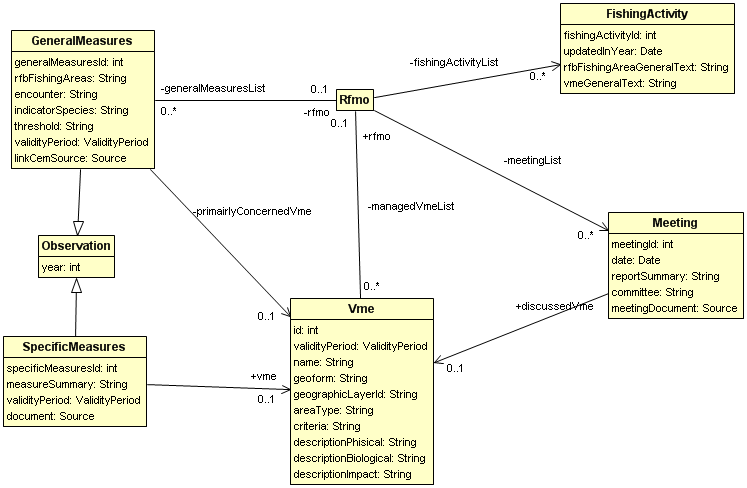
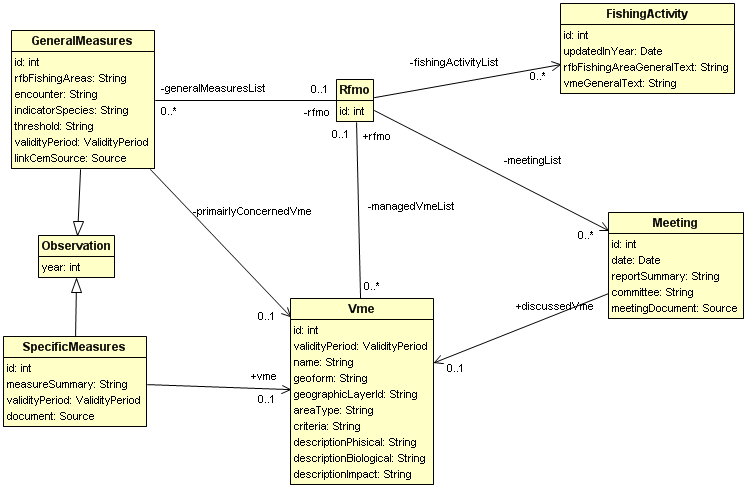
domain has been changed,

diff --git a/vme-domain/src/main/java/org/fao/fi/vme/domain/GeneralMeasures.java b/vme-domain/src/main/java/org/fao/fi/vme/domain/GeneralMeasures.java
@@ -15,7 +15,7 @@ public class GeneralMeasures extends Observation {
 	 * 
 	 */
 	@Id
-	private int generalMeasuresId;
+	private int id;
 
 	/** */
 	private String rfbFishingAreas;
@@ -44,11 +44,11 @@ public class GeneralMeasures extends Observation {
 	private Vme primairlyConcernedVme;
 
 	public int getGeneralMeasuresId() {
-		return generalMeasuresId;
+		return id;
 	}
 
 	public void setGeneralMeasuresId(int generalMeasuresId) {
-		this.generalMeasuresId = generalMeasuresId;
+		this.id = generalMeasuresId;
 	}
 
 	public String getRfbFishingAreas() {
@@ -113,6 +113,14 @@ public class GeneralMeasures extends Observation {
 
 	public void setPrimairlyConcernedVme(Vme primairlyConcernedVme) {
 		this.primairlyConcernedVme = primairlyConcernedVme;
+	}
+
+	public int getId() {
+		return id;
+	}
+
+	public void setId(int id) {
+		this.id = id;
 	}
 
 }

diff --git a/vme-domain/src/main/java/org/fao/fi/vme/domain/FishingActivity.java b/vme-domain/src/main/java/org/fao/fi/vme/domain/FishingActivity.java
@@ -17,7 +17,7 @@ public class FishingActivity {
 	 * 
 	 */
 	@Id
-	private int fishingActivityId;
+	private int id;
 
 	private Date updatedInYear;
 
@@ -28,11 +28,11 @@ public class FishingActivity {
 	private String vmeGeneralText;
 
 	public int getFishingActivityId() {
-		return fishingActivityId;
+		return id;
 	}
 
 	public void setFishingActivityId(int fishingActivityId) {
-		this.fishingActivityId = fishingActivityId;
+		this.id = fishingActivityId;
 	}
 
 	public Date getUpdatedInYear() {
@@ -57,6 +57,14 @@ public class FishingActivity {
 
 	public void setVmeGeneralText(String vmeGeneralText) {
 		this.vmeGeneralText = vmeGeneralText;
+	}
+
+	public int getId() {
+		return id;
+	}
+
+	public void setId(int id) {
+		this.id = id;
 	}
 
 }

diff --git a/vme-service/src/test/java/org/fao/fi/vme/dao/msaccess/VmeAccessDbImportTest.java b/vme-service/src/test/java/org/fao/fi/vme/dao/msaccess/VmeAccessDbImportTest.java
@@ -3,7 +3,6 @@ package org.fao.fi.vme.dao.msaccess;
 import org.junit.Test;
 
 import static org.junit.Assert.assertTrue;
-import static org.junit.Assert.fail;
 
 public class VmeAccessDbImportTest {
 
@@ -13,14 +12,14 @@ public class VmeAccessDbImportTest {
 		assertTrue(i.generateObjects().size() > 10);
 	}
 
-	@Test
-	public void testGetResultset() {
-		fail("Not yet implemented");
-	}
-
-	@Test
-	public void testGetConnection() {
-		fail("Not yet implemented");
-	}
+	// @Test
+	// public void testGetResultset() {
+	// fail("Not yet implemented");
+	// }
+	//
+	// @Test
+	// public void testGetConnection() {
+	// fail("Not yet implemented");
+	// }
 
 }

diff --git a/vme-domain/src/main/java/org/fao/fi/vme/domain/SpecificMeasures.java b/vme-domain/src/main/java/org/fao/fi/vme/domain/SpecificMeasures.java
@@ -15,7 +15,7 @@ public class SpecificMeasures extends Observation {
 	 *  
 	 */
 	@Id
-	private int specificMeasuresId;
+	private int id;
 
 	/** 
 	 */
@@ -34,12 +34,12 @@ public class SpecificMeasures extends Observation {
 	 */
 	public Source document;
 
-	public int getSpecificMeasuresId() {
-		return specificMeasuresId;
+	public int getId() {
+		return id;
 	}
 
-	public void setSpecificMeasuresId(int specificMeasuresId) {
-		this.specificMeasuresId = specificMeasuresId;
+	public void setId(int id) {
+		this.id = id;
 	}
 
 	public String getMeasureSummary() {

diff --git a/vme-service/src/test/java/org/fao/fi/vme/dao/VmeDaoTest.java b/vme-service/src/test/java/org/fao/fi/vme/dao/VmeDaoTest.java
@@ -2,7 +2,7 @@ package org.fao.fi.vme.dao;
 
 import javax.inject.Inject;
 
-import org.fao.fi.vme.domain.VmeObservation;
+import org.fao.fi.vme.domain.Vme;
 import org.jglue.cdiunit.CdiRunner;
 import org.junit.Test;
 import org.junit.runner.RunWith;
@@ -19,9 +19,9 @@ public class VmeDaoTest {
 	public void testPersistVme() {
 		assertNotNull(dao);
 
-		VmeObservation vme = new VmeObservation();
-		String status = "go";
-		vme.setStatus(status);
+		Vme vme = new Vme();
+		String criteria = "go";
+		vme.setCriteria(criteria);
 		// dao.persistVme(vme);
 
 	}

diff --git a/vme-domain/src/main/java/org/fao/fi/vme/domain/Meeting.java b/vme-domain/src/main/java/org/fao/fi/vme/domain/Meeting.java
@@ -15,7 +15,7 @@ import javax.persistence.Id;
 public class Meeting {
 
 	@Id
-	private int meetingId;
+	private int id;
 
 	/** */
 	private Date date;
@@ -36,12 +36,12 @@ public class Meeting {
 	 */
 	public Source meetingDocument;
 
-	public int getMeetingId() {
-		return meetingId;
+	public int getId() {
+		return id;
 	}
 
-	public void setMeetingId(int meetingId) {
-		this.meetingId = meetingId;
+	public void setId(int id) {
+		this.id = id;
 	}
 
 	public Date getDate() {

diff --git a/vme-service/src/test/java/org/fao/fi/vme/dao/JPATest.java b/vme-service/src/test/java/org/fao/fi/vme/dao/JPATest.java
@@ -20,8 +20,8 @@ public class JPATest {
 	@Test
 	public void roundTrip() {
 		Vme created = new Vme();
-		String status = "go";
-		created.setStatus(status);
+		String criteria = "go";
+		created.setCriteria(criteria);
 
 		store(created);
 
@@ -30,7 +30,7 @@ public class JPATest {
 		assertNotNull(loaded);
 
 		assertEquals(1, loaded.getId());
-		assertEquals(status, loaded.getStatus());
+		assertEquals(criteria, loaded.getCriteria());
 
 	}
 
